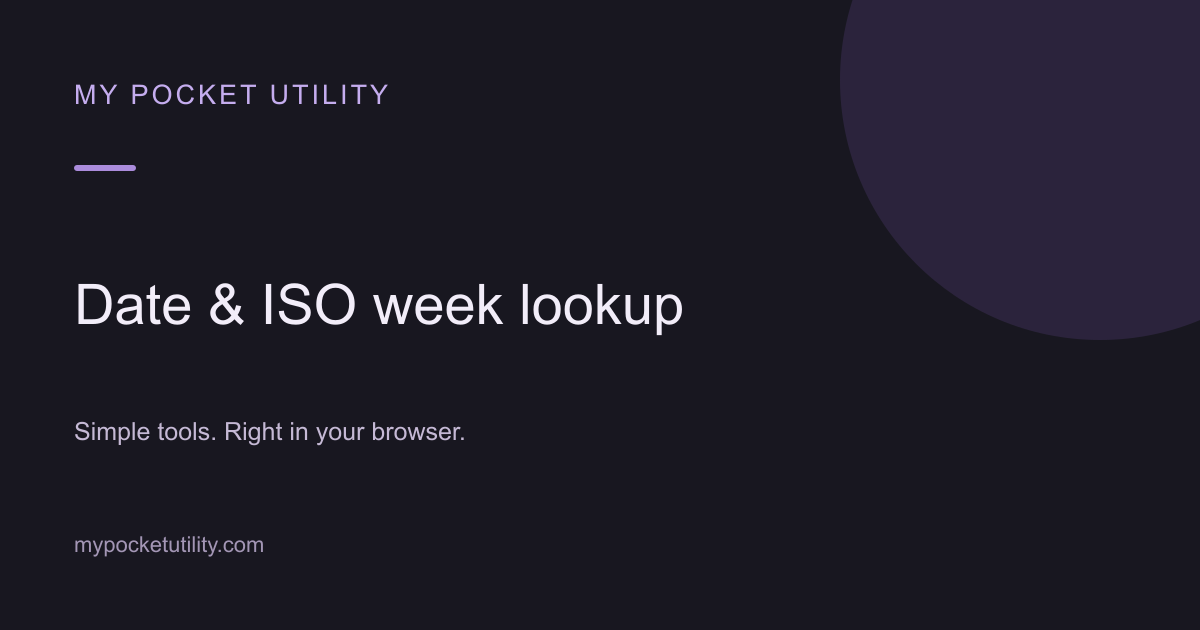
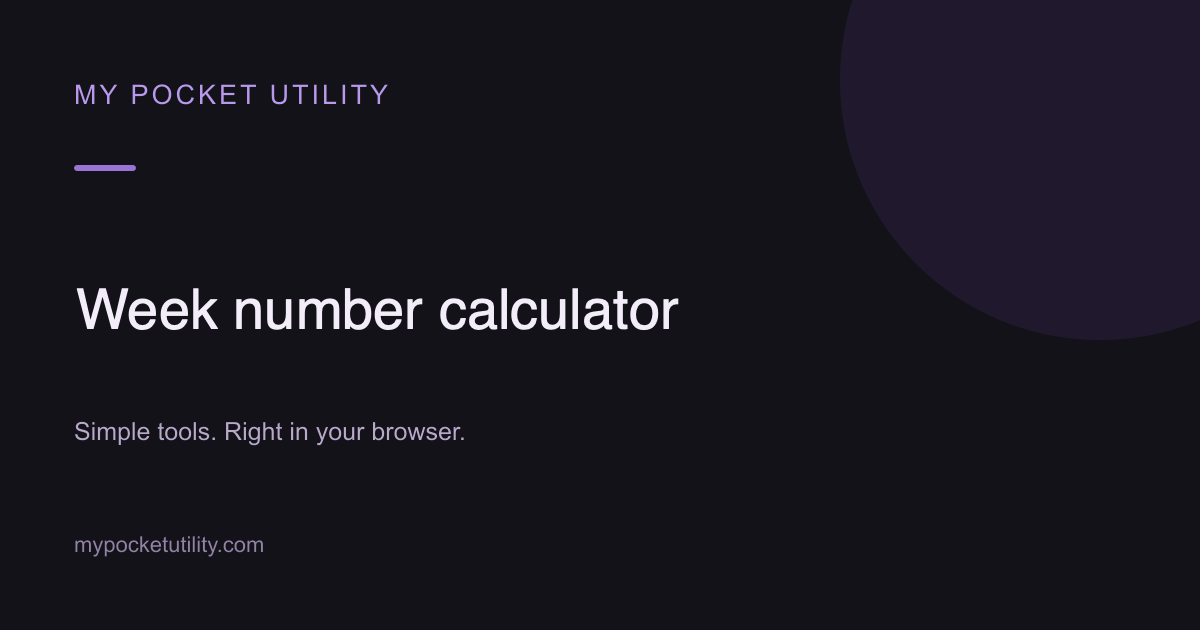
Rename weeknumber tool to Week number calculator with SEO and OG updates

Changed region(s): [[0.0617, 0.4524, 0.5858, 0.5429]]

diff --git a/src/App.tsx b/src/App.tsx
@@ -53,8 +53,8 @@ const tools = [{id:'lorem-ipsum',name:'Lorem ipsum 생성기',english:'LOREM IPS
   tags: ['HEIC → JPG', 'HEIC → PNG']
 }, {
   id: 'weeknumber',
-  name: '위크넘버',
-  english: 'WEEK NUMBER',
+  name: '위크넘버 계산기',
+  english: 'WEEK NUMBER CALCULATOR',
   category: '날짜·시간',
   text: '오늘은 몇 주차일까요?\n날짜와 기념일로 주차를 찾아보세요.',
   Icon: CalendarDays,
@@ -203,7 +203,7 @@ function WeekNumber({
     navigate(routeHref('weeknumber', q));
   };
   const same = result && result.year === current.year && result.week === current.week;
-  return <><div className="tool-heading"><span className="eyebrow">DATE & TIME / 03</span><h1>{tr("위크넘버")}</h1><p>{tr("“내년 추석”도, “12월 23일”도. 한국어로 편하게 검색하세요.")}</p></div><section className="week-search"><form onSubmit={e => {
+  return <><div className="tool-heading"><span className="eyebrow">DATE & TIME / 03</span><h1>{tr("위크넘버 계산기")}</h1><p>{tr("“내년 추석”도, “12월 23일”도. 한국어로 편하게 검색하세요.")}</p></div><section className="week-search"><form onSubmit={e => {
         e.preventDefault();
         run(input);
       }}><Search size={21} /><input aria-label={tr("날짜 또는 주차 검색")} value={input} onChange={e => setInput(e.target.value)} placeholder={tr("52주차, 12월 23일, 크리스마스, 내년 추석")} /><button type="submit">{tr("조회하기 ")}<ArrowRight size={17} /></button></form><div className="examples"><span>{tr("이렇게 검색해 보세요")}</span>{tr(['오늘', '52주차', '12월 23일', '크리스마스', '내년 추석'].map(x => <button key={x} onClick={() => run(tr(x))}>{tr(x)}</button>))}</div></section>{tr(error ? <div className="query-error" role="alert"><b>{tr("검색어를 다시 확인해 주세요.")}</b><p>{tr(error)}</p><button onClick={() => run('')}>{tr("오늘의 주차 보기")}</button></div> : <><section className="week-result" aria-live="polite"><div className="week-main"><div className="week-label"><span className="live-dot" />{tr(!query ? '오늘의 주차' : result.label)}{tr(same && query && <small>{tr("이번 주")}</small>)}</div><div className="big-week"><span>{tr(String(result.week).padStart(2, '0'))}</span><div><b>{tr("주차")}</b><small>{tr(`${result.year}년 ${result.week}주차`)}</small></div></div><p className="result-date">{tr(result.date ? dateLabel(result.date) : `${result.year}년의 ${result.week}번째 주`)}</p><span className="basis">{tr(result.basis)}</span></div><div className="week-detail"><span className="eyebrow">{tr("한 주의 기간")}</span><div className="range-date"><span>{tr("월요일")}</span><strong>{tr(dateLabel(result.start))}</strong></div><div className="range-line" /><div className="range-date"><span>{tr("일요일")}</span><strong>{tr(dateLabel(result.end))}</strong></div><div className="week-controls"><button aria-label={tr("이전 주")} onClick={() => run(dateKey(addDays(result.start, -7)))} disabled={result.start.getUTCFullYear() < 1900}><ChevronLeft size={16} />{tr(" 이전 주")}</button><button onClick={() => run('')}>{tr("오늘")}</button><button aria-label={tr("다음 주")} onClick={() => run(dateKey(addDays(result.start, 7)))} disabled={result.end.getUTCFullYear() > 2100}>{tr("다음 주 ")}<ChevronRight size={16} /></button></div></div></section>{tr(result.festival && <p className="festival-note"><CalendarDays size={17} /> {tr(result.label)}{tr(" 당일은 ")}{tr(dateLabel(result.date))}{tr("입니다. 전날·당일·다음날: ")}{tr(dateLabel(addDays(result.date, -1)))} ~ {tr(dateLabel(addDays(result.date, 1)))}. <span>{tr("대체·임시공휴일은 포함하지 않습니다.")}</span></p>)}<div className="result-bottom"><span>{tr("한국 시간 (KST) · ISO 8601 · 월요일~일요일")}</span><button onClick={async () => {

diff --git a/index.html b/index.html
@@ -10,7 +10,7 @@
 <script>(function(w,d,s,l,i){w[l]=w[l]||[];w[l].push({'gtm.start':new Date().getTime(),event:'gtm.js'});var f=d.getElementsByTagName(s)[0],j=d.createElement(s),dl=l!='dataLayer'?'&l='+l:'';j.async=true;j.src='https://www.googletagmanager.com/gtm.js?id='+i+dl;f.parentNode.insertBefore(j,f);})(window,document,'script','dataLayer','GTM-TWZHXWH8');</script>
 <!-- End Google Tag Manager -->
 <meta name="naver-site-verification" content="a35bf882b515b12fcc10b239dcc8be5aaeb63caf" />
-<script>try{var t=localStorage.getItem('pocket-theme');document.documentElement.dataset.theme=t==='dark'||(!t&&matchMedia('(prefers-color-scheme: dark)').matches)?'dark':'light'}catch(e){}</script><meta name="viewport" content="width=device-width,initial-scale=1"><title>MY POCKET UTILITY — 이미지 변환과 한국어 주차 검색</title><meta name="description" content="WebP·HEIC 이미지 변환과 한국어 위크넘버. 52주차, 12월 23일, 내년 추석을 검색하고 정확한 날짜와 주차를 확인하세요."><meta name="theme-color" content="#7561cd"><link rel="stylesheet" href="entry.css"></head><body>
+<script>try{var t=localStorage.getItem('pocket-theme');document.documentElement.dataset.theme=t==='dark'||(!t&&matchMedia('(prefers-color-scheme: dark)').matches)?'dark':'light'}catch(e){}</script><meta name="viewport" content="width=device-width,initial-scale=1"><title>MY POCKET UTILITY — 이미지 변환과 위크넘버 계산기</title><meta name="description" content="WebP·AVIF·HEIC 이미지 변환과 한국어 위크넘버 계산기. 52주차, 12월 23일, 내년 추석을 검색하고 정확한 날짜와 주차를 확인하세요."><meta name="theme-color" content="#7561cd"><link rel="stylesheet" href="entry.css"></head><body>
 <!-- Google Tag Manager (noscript) -->
 <noscript><iframe src="https://www.googletagmanager.com/ns.html?id=GTM-TWZHXWH8" height="0" width="0" style="display:none;visibility:hidden" title="Google Tag Manager"></iframe></noscript>
 <!-- End Google Tag Manager (noscript) --><div id="root"></div><script src="entry.js"></script></body></html>
